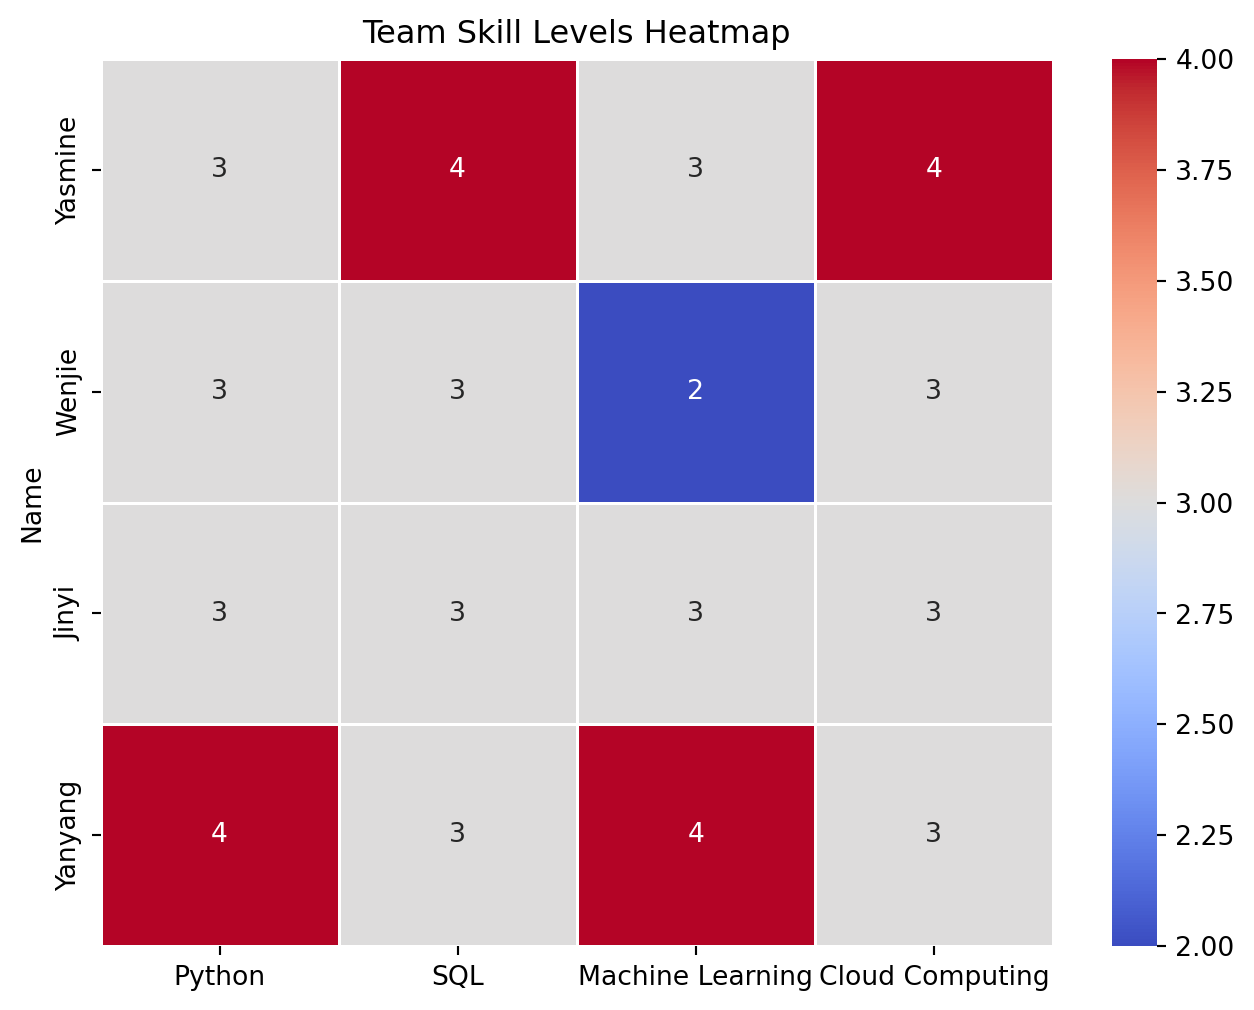
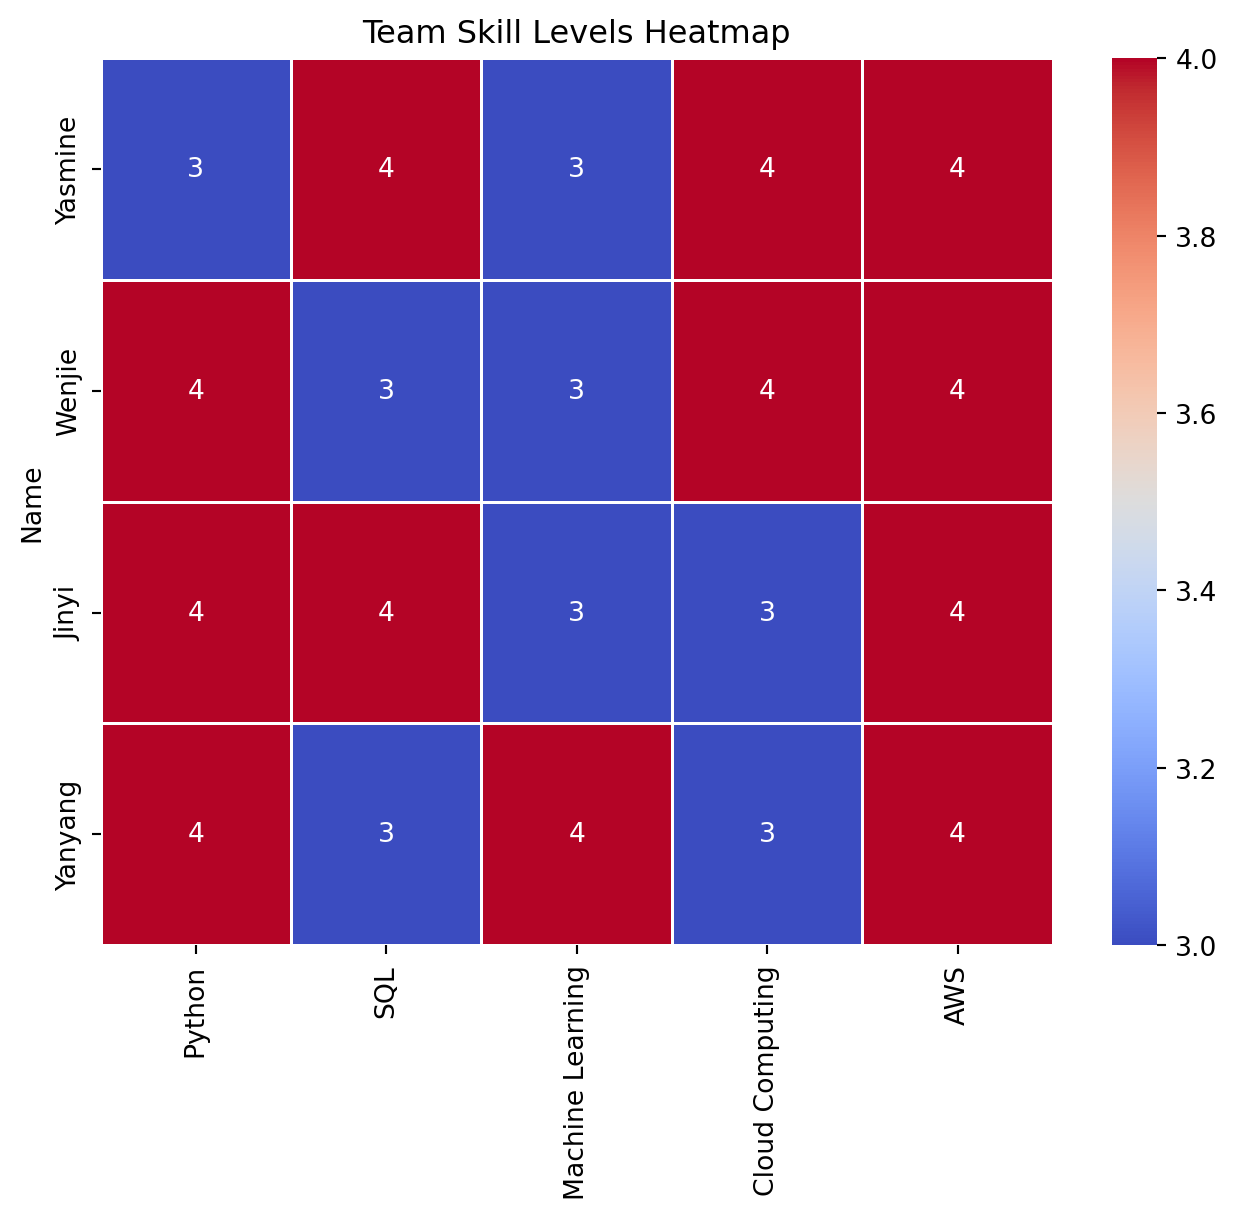
Built site for gh-pages

diff --git a/team_analysis.html b/team_analysis.html
@@ -212,7 +212,7 @@ pre > code.sourceCode > span > a:first-child::before { text-decoration: underlin
 
 <section id="trends-and-insights-from-the-lightcast-dataset" class="level2">
 <h2 class="anchored" data-anchor-id="trends-and-insights-from-the-lightcast-dataset">Trends and Insights From The Lightcast Dataset</h2>
-<div id="68f0de35" class="cell" data-execution_count="1">
+<div id="ff52eb0d" class="cell" data-execution_count="1">
 <details class="code-fold">
 <summary>Code</summary>
 <div class="sourceCode cell-code" id="cb1"><pre class="sourceCode python code-with-copy"><code class="sourceCode python"><span id="cb1-1"><a href="#cb1-1" aria-hidden="true" tabindex="-1"></a><span class="im">import</span> ast</span>
@@ -237,7 +237,7 @@ We kept only the most recent version:</p>
 <li><code>SOC_2021_4</code> (for occupation classification)</li>
 </ul></li>
 </ul>
-<div id="456d0d42" class="cell" data-execution_count="2">
+<div id="38c27016" class="cell" data-execution_count="2">
 <details class="code-fold">
 <summary>Code</summary>
 <div class="sourceCode cell-code" id="cb2"><pre class="sourceCode python code-with-copy"><code class="sourceCode python"><span id="cb2-1"><a href="#cb2-1" aria-hidden="true" tabindex="-1"></a><span class="co"># Keeping only the latest NAICS_2022_6 and SOC_2021_4 columns</span></span>
@@ -269,7 +269,7 @@ We kept only the most recent version:</p>
 <li><strong>Missing Data</strong><br>
 This step helps in identifying and removing highly incomplete features to improve data quality and analysis reliability. We visualize it using heat map.</li>
 </ul>
-<div id="6e554533" class="cell" data-execution_count="3">
+<div id="8e8d8bfd" class="cell" data-execution_count="3">
 <details class="code-fold">
 <summary>Code</summary>
 <div class="sourceCode cell-code" id="cb3"><pre class="sourceCode python code-with-copy"><code class="sourceCode python"><span id="cb3-1"><a href="#cb3-1" aria-hidden="true" tabindex="-1"></a>df <span class="op">=</span> pd.read_csv(<span class="st">'./data/lightcast_job_postings.csv'</span>)</span>
@@ -285,7 +285,7 @@ This step helps in identifying and removing highly incomplete features to improv
 </div>
 <p><img src="./figures/heatmap.png" class="img-fluid" alt="Missing Value Heatmap">{width=“80%”, fig-align=“center”}</p>
 <p>Using cleaned datas to conduct analysis.</p>
-<div id="785248ed" class="cell" data-execution_count="4">
+<div id="9a7fed07" class="cell" data-execution_count="4">
 <details class="code-fold">
 <summary>Code</summary>
 <div class="sourceCode cell-code" id="cb4"><pre class="sourceCode python code-with-copy"><code class="sourceCode python"><span id="cb4-1"><a href="#cb4-1" aria-hidden="true" tabindex="-1"></a>df <span class="op">=</span> pd.read_csv(<span class="st">"data/cleaned_data.csv"</span>)</span>
@@ -297,7 +297,7 @@ This step helps in identifying and removing highly incomplete features to improv
 <section id="identifying-ai-and-non-ai-jobs" class="level3">
 <h3 class="anchored" data-anchor-id="identifying-ai-and-non-ai-jobs">Identifying AI and Non-AI Jobs</h3>
 <p>We identify AI/non-AI jobs by keyword searching.</p>
-<div id="8ac04474" class="cell" data-execution_count="5">
+<div id="6c8c8474" class="cell" data-execution_count="5">
 <details class="code-fold">
 <summary>Code</summary>
 <div class="sourceCode cell-code" id="cb5"><pre class="sourceCode python code-with-copy"><code class="sourceCode python"><span id="cb5-1"><a href="#cb5-1" aria-hidden="true" tabindex="-1"></a>keywords <span class="op">=</span> [<span class="st">'AI'</span>, <span class="st">'Artificial Intelligence'</span>, <span class="st">'Machine Learning'</span>, <span class="st">'Deep Learning'</span>,</span>
@@ -317,7 +317,7 @@ This step helps in identifying and removing highly incomplete features to improv
 <section id="trend-1-ai-vs.-non-ai-job-across-industries" class="level3">
 <h3 class="anchored" data-anchor-id="trend-1-ai-vs.-non-ai-job-across-industries">Trend 1: AI vs.&nbsp;Non-AI Job Across Industries</h3>
 <p>We first compare the number of AI and Non-AI jobs across all industries.</p>
-<div id="450de30d" class="cell" data-execution_count="6">
+<div id="e9a952e2" class="cell" data-execution_count="6">
 <details class="code-fold">
 <summary>Code</summary>
 <div class="sourceCode cell-code" id="cb6"><pre class="sourceCode python code-with-copy"><code class="sourceCode python"><span id="cb6-1"><a href="#cb6-1" aria-hidden="true" tabindex="-1"></a>df_grouped <span class="op">=</span> df.groupby([<span class="st">'AI_JOB'</span>, <span class="st">'NAICS2_NAME'</span>]).size().reset_index(name<span class="op">=</span><span class="st">'Job_Count'</span>)</span>
@@ -335,7 +335,7 @@ This step helps in identifying and removing highly incomplete features to improv
 <section id="trend-2-ai-driven-job-growth-vs.-job-displacement" class="level3">
 <h3 class="anchored" data-anchor-id="trend-2-ai-driven-job-growth-vs.-job-displacement">Trend 2: AI-driven Job Growth vs.&nbsp;Job Displacement</h3>
 <p>Now we turn out eyes to job growth and job displacement.</p>
-<div id="c62cd5fc" class="cell" data-execution_count="7">
+<div id="67b947da" class="cell" data-execution_count="7">
 <details class="code-fold">
 <summary>Code</summary>
 <div class="sourceCode cell-code" id="cb7"><pre class="sourceCode python code-with-copy"><code class="sourceCode python"><span id="cb7-1"><a href="#cb7-1" aria-hidden="true" tabindex="-1"></a>df_grouped <span class="op">=</span> df.groupby([<span class="st">'POSTED'</span>, <span class="st">'AI_JOB'</span>]).size().reset_index(name<span class="op">=</span><span class="st">'Job_Count'</span>)</span>
@@ -349,7 +349,7 @@ This step helps in identifying and removing highly incomplete features to improv
 <iframe src="figures/2_chart.html" width="750" height="600"></iframe>
 
 <p>Overall, there are more newly posted AI jobs than non-AI jobs.</p>
-<div id="e2f79223" class="cell" data-execution_count="8">
+<div id="467bd643" class="cell" data-execution_count="8">
 <details class="code-fold">
 <summary>Code</summary>
 <div class="sourceCode cell-code" id="cb8"><pre class="sourceCode python code-with-copy"><code class="sourceCode python"><span id="cb8-1"><a href="#cb8-1" aria-hidden="true" tabindex="-1"></a>df_grouped <span class="op">=</span> df.groupby([<span class="st">'AI_JOB'</span>, <span class="st">'MIN_YEARS_EXPERIENCE'</span>]).size().reset_index(name<span class="op">=</span><span class="st">'Job_Count'</span>)</span>
@@ -363,7 +363,7 @@ This step helps in identifying and removing highly incomplete features to improv
 </div>
 <iframe src="figures/3_chart.html" width="750" height="600"></iframe>
 
-<div id="d0b6fc13" class="cell" data-execution_count="9">
+<div id="3209e5a5" class="cell" data-execution_count="9">
 <details class="code-fold">
 <summary>Code</summary>
 <div class="sourceCode cell-code" id="cb9"><pre class="sourceCode python code-with-copy"><code class="sourceCode python"><span id="cb9-1"><a href="#cb9-1" aria-hidden="true" tabindex="-1"></a>df_grouped <span class="op">=</span> df[df[<span class="st">'SALARY'</span>].notna()].groupby([<span class="st">'AI_JOB'</span>, <span class="st">'MIN_YEARS_EXPERIENCE'</span>])[<span class="st">'SALARY'</span>].mean().reset_index()</span>
@@ -382,7 +382,7 @@ This step helps in identifying and removing highly incomplete features to improv
 <section id="trend-3-skill-in-ai-roles-vs.-traditional-roles" class="level3">
 <h3 class="anchored" data-anchor-id="trend-3-skill-in-ai-roles-vs.-traditional-roles">Trend 3: Skill in AI Roles vs.&nbsp;Traditional Roles</h3>
 <p>As we have seen, nearly every industry now requires a significant number of AI roles. One might interest in what are the valuable skills workers should develop to land in an AI job?</p>
-<div id="868af5fc" class="cell" data-execution_count="10">
+<div id="14eeef40" class="cell" data-execution_count="10">
 <details class="code-fold">
 <summary>Code</summary>
 <div class="sourceCode cell-code" id="cb10"><pre class="sourceCode python code-with-copy"><code class="sourceCode python"><span id="cb10-1"><a href="#cb10-1" aria-hidden="true" tabindex="-1"></a><span class="im">import</span> ast</span>
@@ -400,7 +400,7 @@ This step helps in identifying and removing highly incomplete features to improv
 </div>
 <iframe src="figures/5_chart.html" width="750" height="600"></iframe>
 
-<div id="387930a5" class="cell" data-execution_count="11">
+<div id="c78f9ed5" class="cell" data-execution_count="11">
 <details class="code-fold">
 <summary>Code</summary>
 <div class="sourceCode cell-code" id="cb11"><pre class="sourceCode python code-with-copy"><code class="sourceCode python"><span id="cb11-1"><a href="#cb11-1" aria-hidden="true" tabindex="-1"></a>traditional_skills <span class="op">=</span> df[<span class="op">~</span>df[<span class="st">'AI_JOB'</span>]][<span class="st">'SKILLS'</span>].explode().value_counts().head(<span class="dv">20</span>).reset_index()</span>
@@ -421,7 +421,7 @@ This step helps in identifying and removing highly incomplete features to improv
 <h3 class="anchored" data-anchor-id="trend-4-emerging-ai-job">Trend 4: Emerging AI Job</h3>
 <p>While many traditional jobs are in the process of adopting AI-related technologies. There are many AI jobs emerging.</p>
 <p>We note that <strong>Data Analyst</strong> is the fastest growing AI job.</p>
-<div id="5746e018" class="cell" data-execution_count="12">
+<div id="cc6b4e49" class="cell" data-execution_count="12">
 <details class="code-fold">
 <summary>Code</summary>
 <div class="sourceCode cell-code" id="cb12"><pre class="sourceCode python code-with-copy"><code class="sourceCode python"><span id="cb12-1"><a href="#cb12-1" aria-hidden="true" tabindex="-1"></a>job_titles <span class="op">=</span> df[df[<span class="st">'AI_JOB'</span>]][<span class="st">'TITLE_NAME'</span>].value_counts().head(<span class="dv">20</span>).reset_index()</span>

diff --git a/skill_gap_analysis.html b/skill_gap_analysis.html
@@ -199,7 +199,7 @@ pre > code.sourceCode > span > a:first-child::before { text-decoration: underlin
 </header>
 
 
-<div id="f64a6e22" class="cell" data-execution_count="1">
+<div id="52d34aa6" class="cell" data-execution_count="1">
 <details class="code-fold">
 <summary>Code</summary>
 <div class="sourceCode cell-code" id="cb1"><pre class="sourceCode python code-with-copy"><code class="sourceCode python"><span id="cb1-1"><a href="#cb1-1" aria-hidden="true" tabindex="-1"></a><span class="im">import</span> plotly.io <span class="im">as</span> pio</span>
@@ -208,15 +208,16 @@ pre > code.sourceCode > span > a:first-child::before { text-decoration: underlin
 <span id="cb1-4"><a href="#cb1-4" aria-hidden="true" tabindex="-1"></a></span>
 <span id="cb1-5"><a href="#cb1-5" aria-hidden="true" tabindex="-1"></a>skills_data <span class="op">=</span> {</span>
 <span id="cb1-6"><a href="#cb1-6" aria-hidden="true" tabindex="-1"></a>    <span class="st">"Name"</span>: [<span class="st">"Yasmine"</span>, <span class="st">"Wenjie"</span>, <span class="st">"Jinyi"</span>, <span class="st">"Yanyang"</span>],</span>
-<span id="cb1-7"><a href="#cb1-7" aria-hidden="true" tabindex="-1"></a>    <span class="st">"Python"</span>: [<span class="dv">3</span>, <span class="dv">3</span>, <span class="dv">3</span>, <span class="dv">4</span>],</span>
-<span id="cb1-8"><a href="#cb1-8" aria-hidden="true" tabindex="-1"></a>    <span class="st">"SQL"</span>: [<span class="dv">4</span>, <span class="dv">3</span>, <span class="dv">3</span>, <span class="dv">3</span>],</span>
-<span id="cb1-9"><a href="#cb1-9" aria-hidden="true" tabindex="-1"></a>    <span class="st">"Machine Learning"</span>: [<span class="dv">3</span>, <span class="dv">2</span>, <span class="dv">3</span>, <span class="dv">4</span>],</span>
-<span id="cb1-10"><a href="#cb1-10" aria-hidden="true" tabindex="-1"></a>    <span class="st">"Cloud Computing"</span>: [<span class="dv">4</span>, <span class="dv">3</span>, <span class="dv">3</span>, <span class="dv">3</span>]</span>
-<span id="cb1-11"><a href="#cb1-11" aria-hidden="true" tabindex="-1"></a>}</span>
-<span id="cb1-12"><a href="#cb1-12" aria-hidden="true" tabindex="-1"></a></span>
-<span id="cb1-13"><a href="#cb1-13" aria-hidden="true" tabindex="-1"></a>df_skills <span class="op">=</span> pd.DataFrame(skills_data)</span>
-<span id="cb1-14"><a href="#cb1-14" aria-hidden="true" tabindex="-1"></a>df_skills.set_index(<span class="st">"Name"</span>, inplace<span class="op">=</span><span class="va">True</span>)</span>
-<span id="cb1-15"><a href="#cb1-15" aria-hidden="true" tabindex="-1"></a>df_skills</span></code><button title="Copy to Clipboard" class="code-copy-button"><i class="bi"></i></button></pre></div>
+<span id="cb1-7"><a href="#cb1-7" aria-hidden="true" tabindex="-1"></a>    <span class="st">"Python"</span>: [<span class="dv">3</span>, <span class="dv">4</span>, <span class="dv">4</span>, <span class="dv">4</span>],</span>
+<span id="cb1-8"><a href="#cb1-8" aria-hidden="true" tabindex="-1"></a>    <span class="st">"SQL"</span>: [<span class="dv">4</span>, <span class="dv">3</span>, <span class="dv">4</span>, <span class="dv">3</span>],</span>
+<span id="cb1-9"><a href="#cb1-9" aria-hidden="true" tabindex="-1"></a>    <span class="st">"Machine Learning"</span>: [<span class="dv">3</span>, <span class="dv">3</span>, <span class="dv">3</span>, <span class="dv">4</span>],</span>
+<span id="cb1-10"><a href="#cb1-10" aria-hidden="true" tabindex="-1"></a>    <span class="st">"Cloud Computing"</span>: [<span class="dv">4</span>, <span class="dv">4</span>, <span class="dv">3</span>, <span class="dv">3</span>],</span>
+<span id="cb1-11"><a href="#cb1-11" aria-hidden="true" tabindex="-1"></a>    <span class="st">"AWS"</span>: [<span class="dv">4</span>,<span class="dv">4</span>,<span class="dv">4</span>,<span class="dv">4</span>]</span>
+<span id="cb1-12"><a href="#cb1-12" aria-hidden="true" tabindex="-1"></a>}</span>
+<span id="cb1-13"><a href="#cb1-13" aria-hidden="true" tabindex="-1"></a></span>
+<span id="cb1-14"><a href="#cb1-14" aria-hidden="true" tabindex="-1"></a>df_skills <span class="op">=</span> pd.DataFrame(skills_data)</span>
+<span id="cb1-15"><a href="#cb1-15" aria-hidden="true" tabindex="-1"></a>df_skills.set_index(<span class="st">"Name"</span>, inplace<span class="op">=</span><span class="va">True</span>)</span>
+<span id="cb1-16"><a href="#cb1-16" aria-hidden="true" tabindex="-1"></a>df_skills</span></code><button title="Copy to Clipboard" class="code-copy-button"><i class="bi"></i></button></pre></div>
 </details>
 <div class="cell-output cell-output-display" data-execution_count="1">
 <div>
@@ -230,9 +231,11 @@ pre > code.sourceCode > span > a:first-child::before { text-decoration: underlin
 <th data-quarto-table-cell-role="th">SQL</th>
 <th data-quarto-table-cell-role="th">Machine Learning</th>
 <th data-quarto-table-cell-role="th">Cloud Computing</th>
+<th data-quarto-table-cell-role="th">AWS</th>
 </tr>
 <tr class="even">
 <th data-quarto-table-cell-role="th">Name</th>
+<th data-quarto-table-cell-role="th"></th>
 <th data-quarto-table-cell-role="th"></th>
 <th data-quarto-table-cell-role="th"></th>
 <th data-quarto-table-cell-role="th"></th>
@@ -246,20 +249,23 @@ pre > code.sourceCode > span > a:first-child::before { text-decoration: underlin
 <td>4</td>
 <td>3</td>
 <td>4</td>
+<td>4</td>
 </tr>
 <tr class="even">
 <td data-quarto-table-cell-role="th">Wenjie</td>
+<td>4</td>
 <td>3</td>
 <td>3</td>
-<td>2</td>
-<td>3</td>
+<td>4</td>
+<td>4</td>
 </tr>
 <tr class="odd">
 <td data-quarto-table-cell-role="th">Jinyi</td>
+<td>4</td>
+<td>4</td>
 <td>3</td>
 <td>3</td>
-<td>3</td>
-<td>3</td>
+<td>4</td>
 </tr>
 <tr class="even">
 <td data-quarto-table-cell-role="th">Yanyang</td>
@@ -267,6 +273,7 @@ pre > code.sourceCode > span > a:first-child::before { text-decoration: underlin
 <td>3</td>
 <td>4</td>
 <td>3</td>
+<td>4</td>
 </tr>
 </tbody>
 </table>
@@ -274,7 +281,7 @@ pre > code.sourceCode > span > a:first-child::before { text-decoration: underlin
 </div>
 </div>
 </div>
-<div id="e2e43eca" class="cell" data-execution_count="2">
+<div id="4639f864" class="cell" data-execution_count="2">
 <details class="code-fold">
 <summary>Code</summary>
 <div class="sourceCode cell-code" id="cb2"><pre class="sourceCode python code-with-copy"><code class="sourceCode python"><span id="cb2-1"><a href="#cb2-1" aria-hidden="true" tabindex="-1"></a><span class="im">import</span> seaborn <span class="im">as</span> sns</span>
@@ -288,12 +295,12 @@ pre > code.sourceCode > span > a:first-child::before { text-decoration: underlin
 <div class="cell-output cell-output-display">
 <div>
 <figure class="figure">
-<p><img src="skill_gap_analysis_files/figure-html/cell-3-output-1.png" width="627" height="505" class="figure-img"></p>
+<p><img src="skill_gap_analysis_files/figure-html/cell-3-output-1.png" width="619" height="609" class="figure-img"></p>
 </figure>
 </div>
 </div>
 </div>
-<div id="86437632" class="cell" data-execution_count="3">
+<div id="294d0043" class="cell" data-execution_count="3">
 <details class="code-fold">
 <summary>Code</summary>
 <div class="sourceCode cell-code" id="cb3"><pre class="sourceCode python code-with-copy"><code class="sourceCode python"><span id="cb3-1"><a href="#cb3-1" aria-hidden="true" tabindex="-1"></a><span class="im">from</span> collections <span class="im">import</span> Counter</span>
@@ -321,8 +328,8 @@ pre > code.sourceCode > span > a:first-child::before { text-decoration: underlin
 <th data-quarto-table-cell-role="th">SQL</th>
 <th data-quarto-table-cell-role="th">Machine Learning</th>
 <th data-quarto-table-cell-role="th">Cloud Computing</th>
-<th data-quarto-table-cell-role="th">Docker</th>
 <th data-quarto-table-cell-role="th">AWS</th>
+<th data-quarto-table-cell-role="th">Docker</th>
 </tr>
 <tr class="even">
 <th data-quarto-table-cell-role="th">Name</th>
@@ -341,25 +348,25 @@ pre > code.sourceCode > span > a:first-child::before { text-decoration: underlin
 <td>4</td>
 <td>3</td>
 <td>4</td>
-<td>0</td>
+<td>4</td>
 <td>0</td>
 </tr>
 <tr class="even">
 <td data-quarto-table-cell-role="th">Wenjie</td>
+<td>4</td>
 <td>3</td>
 <td>3</td>
-<td>2</td>
-<td>3</td>
-<td>0</td>
+<td>4</td>
+<td>4</td>
 <td>0</td>
 </tr>
 <tr class="odd">
 <td data-quarto-table-cell-role="th">Jinyi</td>
+<td>4</td>
+<td>4</td>
 <td>3</td>
 <td>3</td>
-<td>3</td>
-<td>3</td>
-<td>0</td>
+<td>4</td>
 <td>0</td>
 </tr>
 <tr class="even">
@@ -368,7 +375,7 @@ pre > code.sourceCode > span > a:first-child::before { text-decoration: underlin
 <td>3</td>
 <td>4</td>
 <td>3</td>
-<td>0</td>
+<td>4</td>
 <td>0</td>
 </tr>
 </tbody>

diff --git a/eda.html b/eda.html
@@ -196,7 +196,7 @@ pre > code.sourceCode > span > a:first-child::before { text-decoration: underlin
 </header>
 
 
-<div id="46e0eef3" class="cell" data-execution_count="1">
+<div id="6d3061eb" class="cell" data-execution_count="1">
 <details class="code-fold">
 <summary>Code</summary>
 <div class="sourceCode cell-code" id="cb1"><pre class="sourceCode python code-with-copy"><code class="sourceCode python"><span id="cb1-1"><a href="#cb1-1" aria-hidden="true" tabindex="-1"></a><span class="im">import</span> plotly.io <span class="im">as</span> pio</span>
@@ -217,7 +217,7 @@ pre > code.sourceCode > span > a:first-child::before { text-decoration: underlin
 <span id="cb1-16"><a href="#cb1-16" aria-hidden="true" tabindex="-1"></a>df_skills</span></code><button title="Copy to Clipboard" class="code-copy-button"><i class="bi"></i></button></pre></div>
 </details>
 </div>
-<div id="17cf5f1d" class="cell" data-execution_count="2">
+<div id="11b28b85" class="cell" data-execution_count="2">
 <details class="code-fold">
 <summary>Code</summary>
 <div class="sourceCode cell-code" id="cb2"><pre class="sourceCode python code-with-copy"><code class="sourceCode python"><span id="cb2-1"><a href="#cb2-1" aria-hidden="true" tabindex="-1"></a><span class="im">import</span> seaborn <span class="im">as</span> sns</span>
@@ -230,7 +230,7 @@ pre > code.sourceCode > span > a:first-child::before { text-decoration: underlin
 </details>
 </div>
 <p>3.1.2 Compare team skills to industry requirements Extract most in-demand skills from IT job postings. Identify gaps between team skill levels and job expectations.</p>
-<div id="78cfaa52" class="cell" data-execution_count="3">
+<div id="f35697e2" class="cell" data-execution_count="3">
 <details class="code-fold">
 <summary>Code</summary>
 <div class="sourceCode cell-code" id="cb3"><pre class="sourceCode python code-with-copy"><code class="sourceCode python"><span id="cb3-1"><a href="#cb3-1" aria-hidden="true" tabindex="-1"></a><span class="im">from</span> collections <span class="im">import</span> Counter</span>
